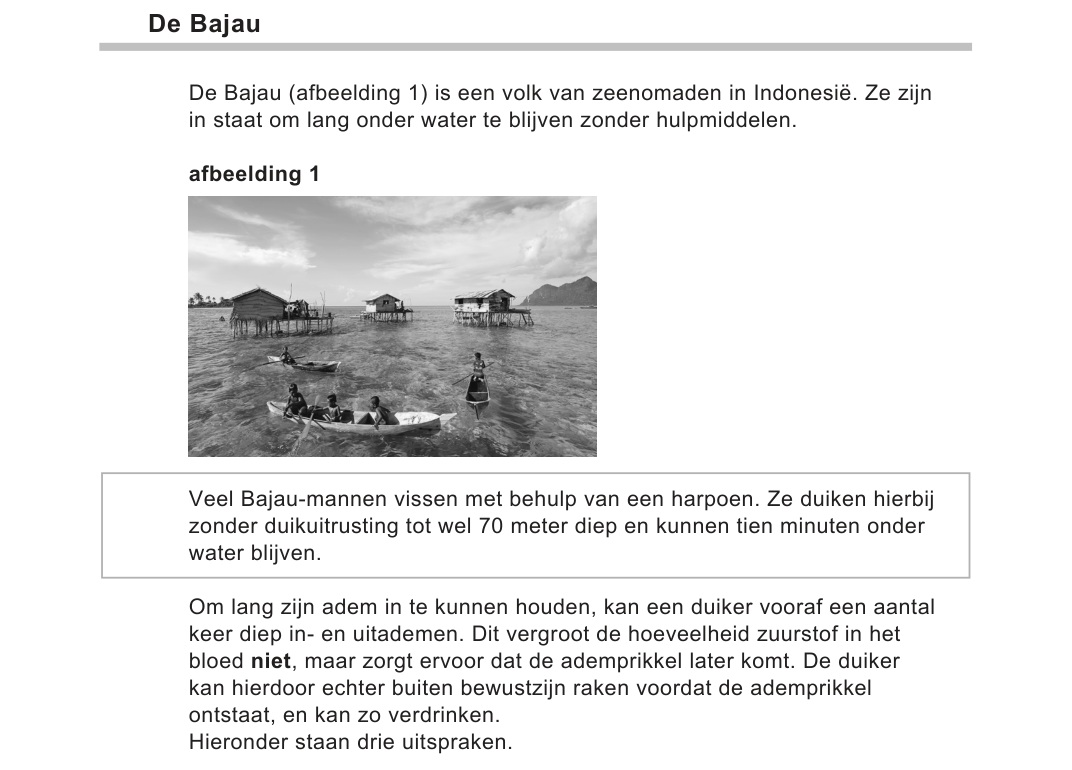
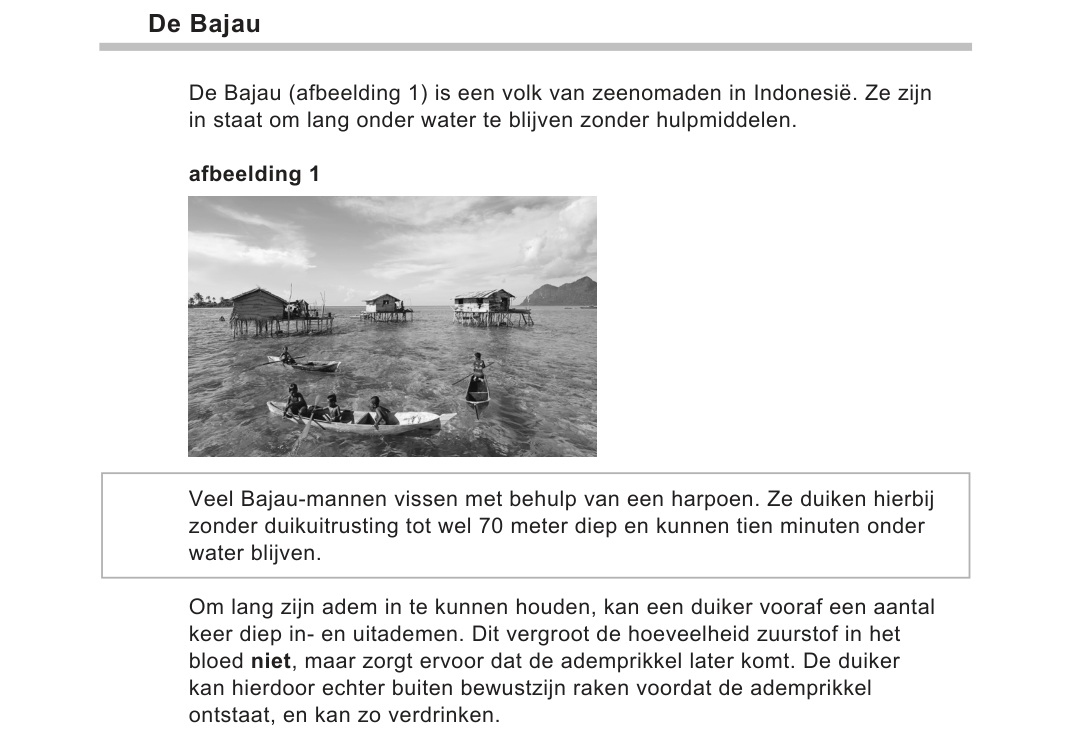
Herstel context- en vraagafbeeldingen Havo 2025-I (#18)
* Herstel context- en vraagafbeeldingen Havo 2025-I

* Voeg regressiecontrole voor volledige contextset vraag 32 toe

* Houd inleiding en uitspraken van Havo 2025-I vraag 26 bij de vraag

* Maak vraag 26 en 32 bronvast bij volledige examenherverwerking

* Valideer door bronverwerking gegenereerde uitsneden voor vraag 26

* Accepteer bronuitsneden vóór en na volledige herverwerking

* Add complete generated exam snippets

* Add complete generated exam snippets

* Recognize Havo 2025-I question 26 binary statements

---------

diff --git a/examenoefenen.html b/examenoefenen.html
@@ -163,6 +163,13 @@ function getBinaryChoiceDefinition(q){
   if(rows.length===3&&rows.every(row=>row.text))return {labels,rows};
   return null;
  }
+ if(q.id==="ha25t1-open-26"){
+  return {labels:["Juist","Onjuist"],rows:[
+   {label:"1",text:"Door het inhouden van de adem wordt het restvolume van de longen groter."},
+   {label:"2",text:"De duiker raakt buiten bewustzijn, doordat de O2-concentratie in zijn bloed te laag wordt."},
+   {label:"3",text:"De ademprikkel blijft uit, omdat de CO2-concentratie in het bloed hoog is."}
+  ]};
+ }
  if(/koolhydraatvertering[\s\S]*eiwitvertering/i.test(prompt)){
   return {labels:["Wel","Geen"],rows:[
    {label:"In de pouch",text:"Koolhydraatvertering"},

diff --git a/scripts/extract-mcq-questions.py b/scripts/extract-mcq-questions.py
@@ -208,7 +208,12 @@ def context_image_fragments(page, lines, indices, prefix, number, question_top, 
                 f"start={start_anchor!r}, end={end_anchor!r}"
             )
         top = max(0, min(rect.y0 for rect in start_hits) - 5)
-        bottom = min(bottom_limit, max(rect.y1 for rect in end_hits) + 1)
+        if prefix == "ha25t1" and number == 26:
+            # The heading introduces the statements and belongs with the
+            # question, so the shared context must stop before the heading.
+            bottom = min(bottom_limit, min(rect.y0 for rect in end_hits) - 2)
+        else:
+            bottom = min(bottom_limit, max(rect.y1 for rect in end_hits) + 1)
         if bottom <= top:
             raise RuntimeError(f"Invalid anchored context bounds for {prefix} question {number}")
         pix = page.get_pixmap(
@@ -915,6 +920,13 @@ def extract_exam(prefix, level, year, period, exam_rel, cv_rel):
                                 if prefix == "vw25t1" else None
                             ),
                         )
+                        if prefix == "ha25t1" and marker["number"] == 32:
+                            # Question 32 continues the context introduced with
+                            # question 31; retain that first context fragment.
+                            previous_context = "exam-snippets/context-ha25t1-q31-complete.jpg"
+                            if not (ROOT / previous_context).is_file():
+                                raise RuntimeError("Missing Havo 2025-I question 31 context for question 32")
+                            context_paths = [previous_context, *context_paths]
                         if not context_paths:
                             if (prefix, marker["number"]) in {
                                 ("vw25t1", 15), ("vw25t1", 16),
@@ -945,12 +957,13 @@ def extract_exam(prefix, level, year, period, exam_rel, cv_rel):
                         # the general context crop ends before the statements.
                         if prefix == "ha25t1" and marker["number"] == 26:
                             statement_hits = page.search_for("Door het inhouden van de adem")
+                            heading_hits = page.search_for("Hieronder staan drie uitspraken.")
                             prompt_hits = page.search_for("bijbehorende uitspraak juist of onjuist is.")
-                            if not statement_hits or not prompt_hits:
+                            if not statement_hits or not heading_hits or not prompt_hits:
                                 raise RuntimeError(
                                     "Could not locate all Havo 2025-I q26 statements and final prompt"
                                 )
-                            statement_top = max(0, min(hit.y0 for hit in statement_hits) - 3)
+                            statement_top = max(0, min(hit.y0 for hit in heading_hits) - 3)
                             prompt_bottom = min(
                                 page.rect.height - 12,
                                 max(hit.y1 for hit in prompt_hits) + 6,
@@ -1029,6 +1042,16 @@ def extract_exam(prefix, level, year, period, exam_rel, cv_rel):
                         if j not in {marker["number_line"], marker["points_line"]}
                         and not HEADER_RE.match(lines[j]["text"])
                     ).strip()
+                    if prefix == "ha25t1" and marker["number"] == 26:
+                        # Keep the statements in the question, not in its
+                        # general context. The heading is part of the prompt.
+                        context = re.sub(
+                            r"\n?Hieronder staan drie uitspraken\..*$",
+                            "",
+                            context,
+                            flags=re.S,
+                        ).strip()
+                        selected_prompt = "Hieronder staan drie uitspraken.\n" + selected_prompt
                     if context_record is None and selected_context_page is not None:
                         previous_ranges.append((start, question_end_line + 1))
                         cursor = question_end_line + 1
